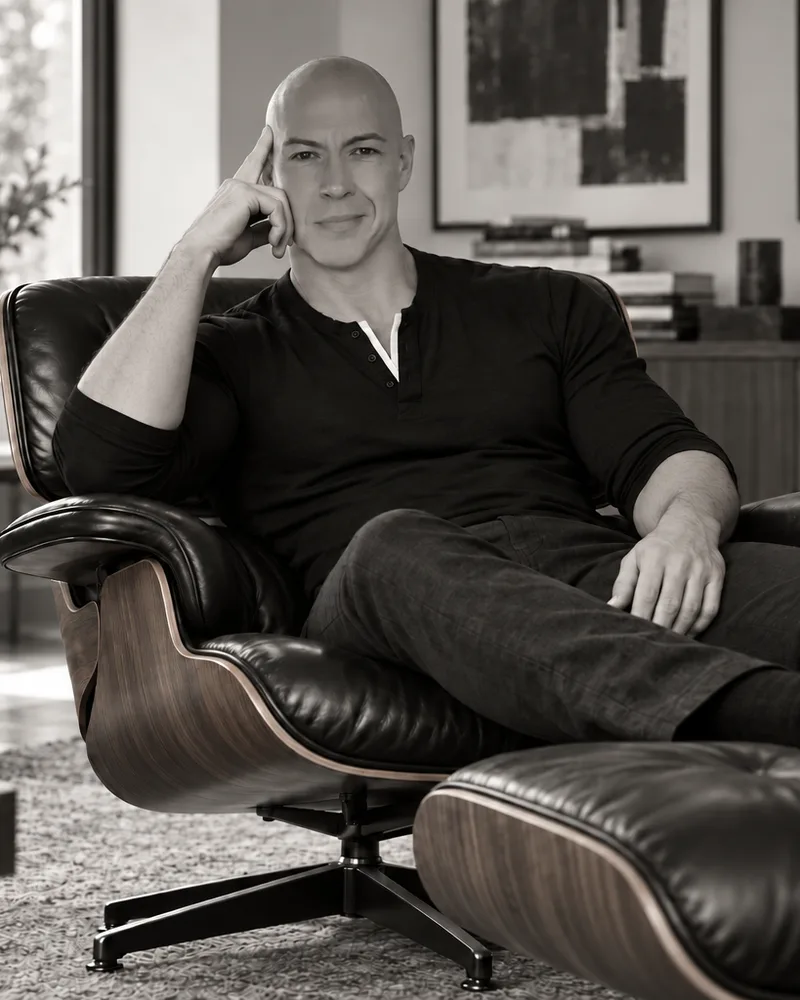
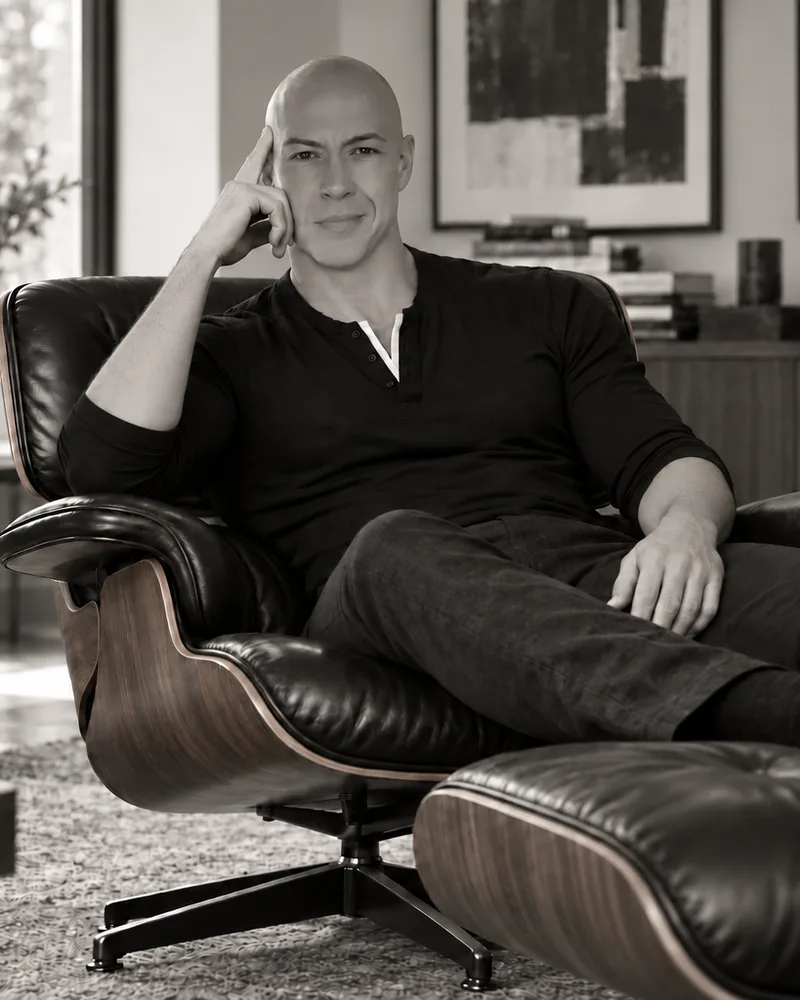
About: new portrait and bio
Replaces paul-chamberlain-portrait.webp with the new 800x1000 version
(alt text unchanged; ?v=2 on the address so phones that cached the old
photo fetch the new one) and the bio under it with the Round 3 text.

Claude-Session: https://claude.ai/code/session_01XgaHPaYvQE4NrQaep8rph4

diff --git a/frontend/index.html b/frontend/index.html
@@ -381,8 +381,8 @@ button:focus-visible,label:focus-within{outline:2px solid var(--gilt);outline-of
       <p>Shame: The Game isn't therapy, and it won't do the work for you. It's a way in: a set of images that make a hard subject easier to look at, alone or with people you trust. My hope is that it helps you see your own story a little more clearly, and tell it on your own terms.</p>
       <p class="ab-sign">— Paul J. Chamberlain</p>
       <figure class="ab-portrait">
-        <img src="img/paul-chamberlain-portrait.webp" alt="Paul J. Chamberlain, seated in a leather lounge chair" width="800" height="1000" loading="lazy">
-        <figcaption>Paul J. Chamberlain is the creator of Shame: The Game and the creator and host of the Smart Funny Tortured podcast. A coach whose work grew out of his own hardest experiences, he spent more than 25 years as a senior creative officer and serial entrepreneur, bringing branding and pop-culture expertise to companies in tech and entertainment.</figcaption>
+        <img src="img/paul-chamberlain-portrait.webp?v=2" alt="Paul J. Chamberlain, seated in a leather lounge chair" width="800" height="1000" loading="lazy">
+        <figcaption>Paul J. Chamberlain is the creator of Shame: The Game, host of the Smart Funny Tortured podcast, and principal of Chamberlain.Life. A coach and crisis advocate, he helps people shift the power dynamic between themselves and their shame.</figcaption>
       </figure>
       <h3>How readings are made</h3>
       <p>When you tap "Read my cards," the names of your four cards are sent to an AI system (Claude, made by Anthropic), which writes a short reading. Nothing else is sent: no name, no email, no account.</p>
